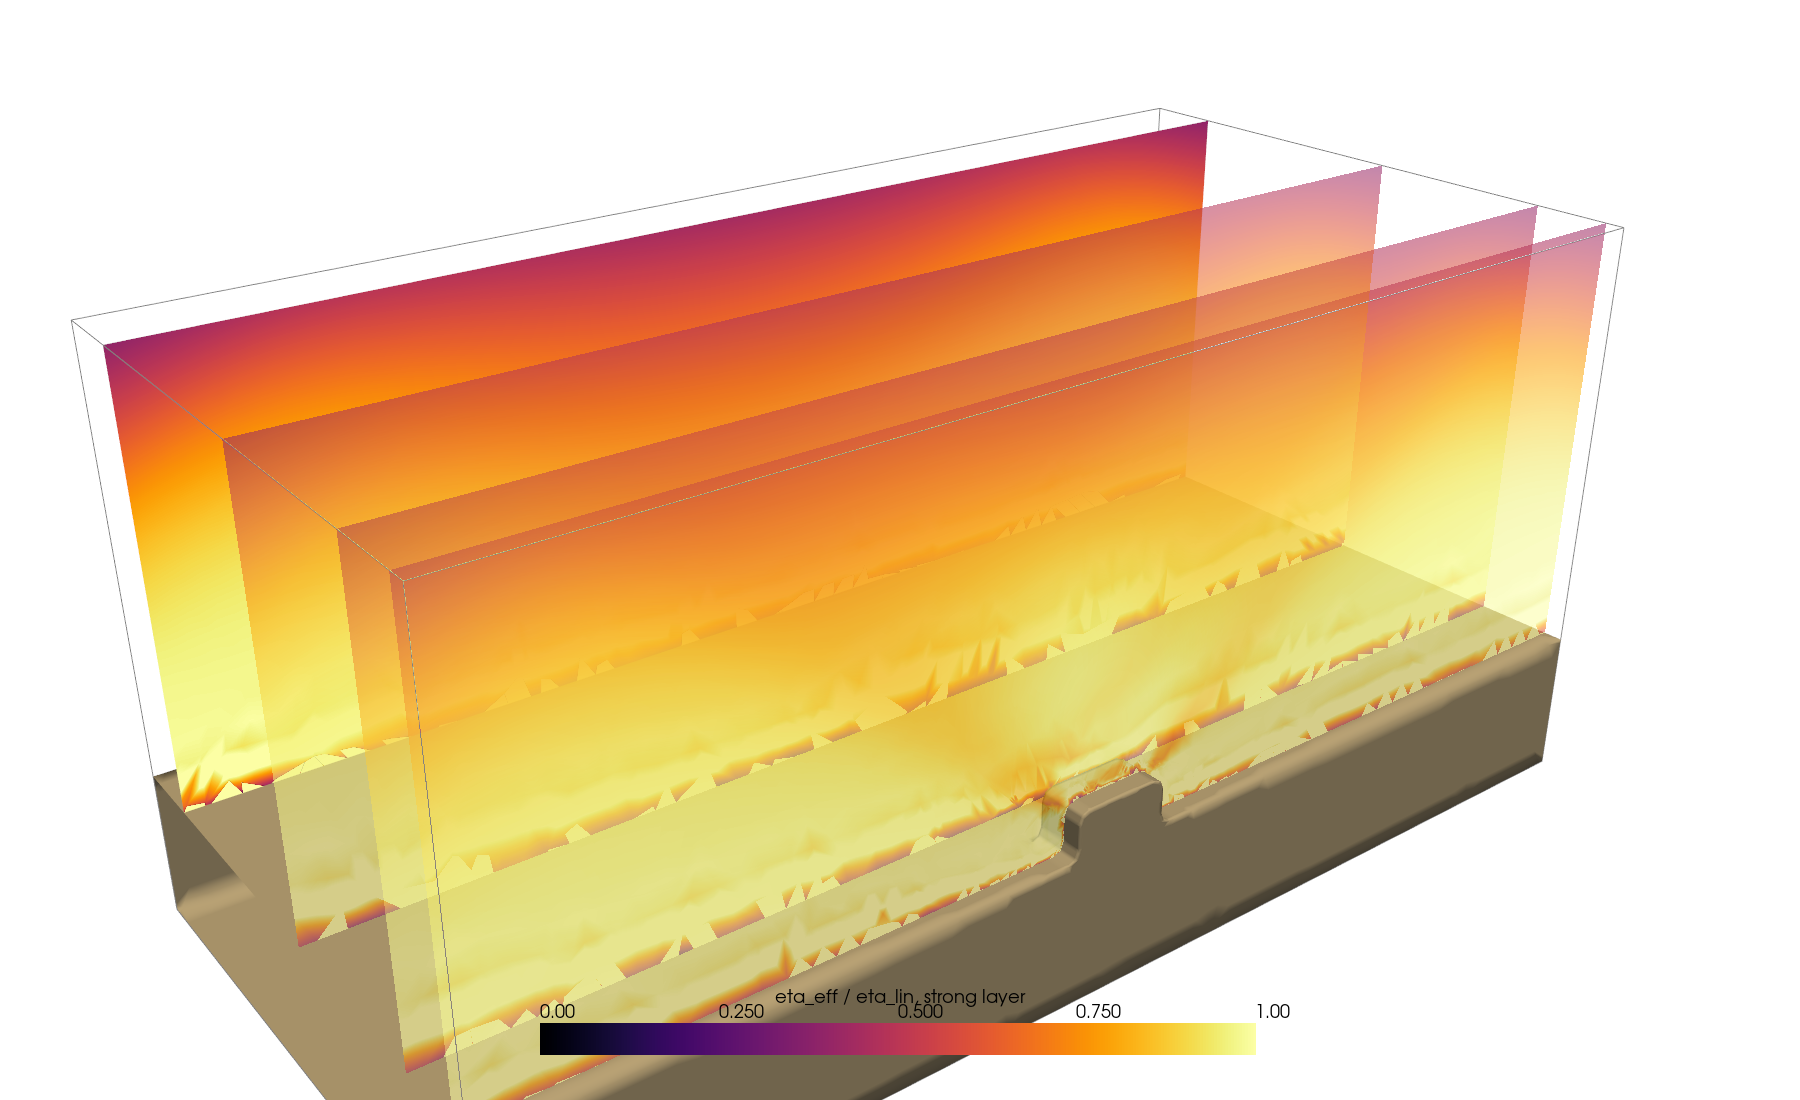
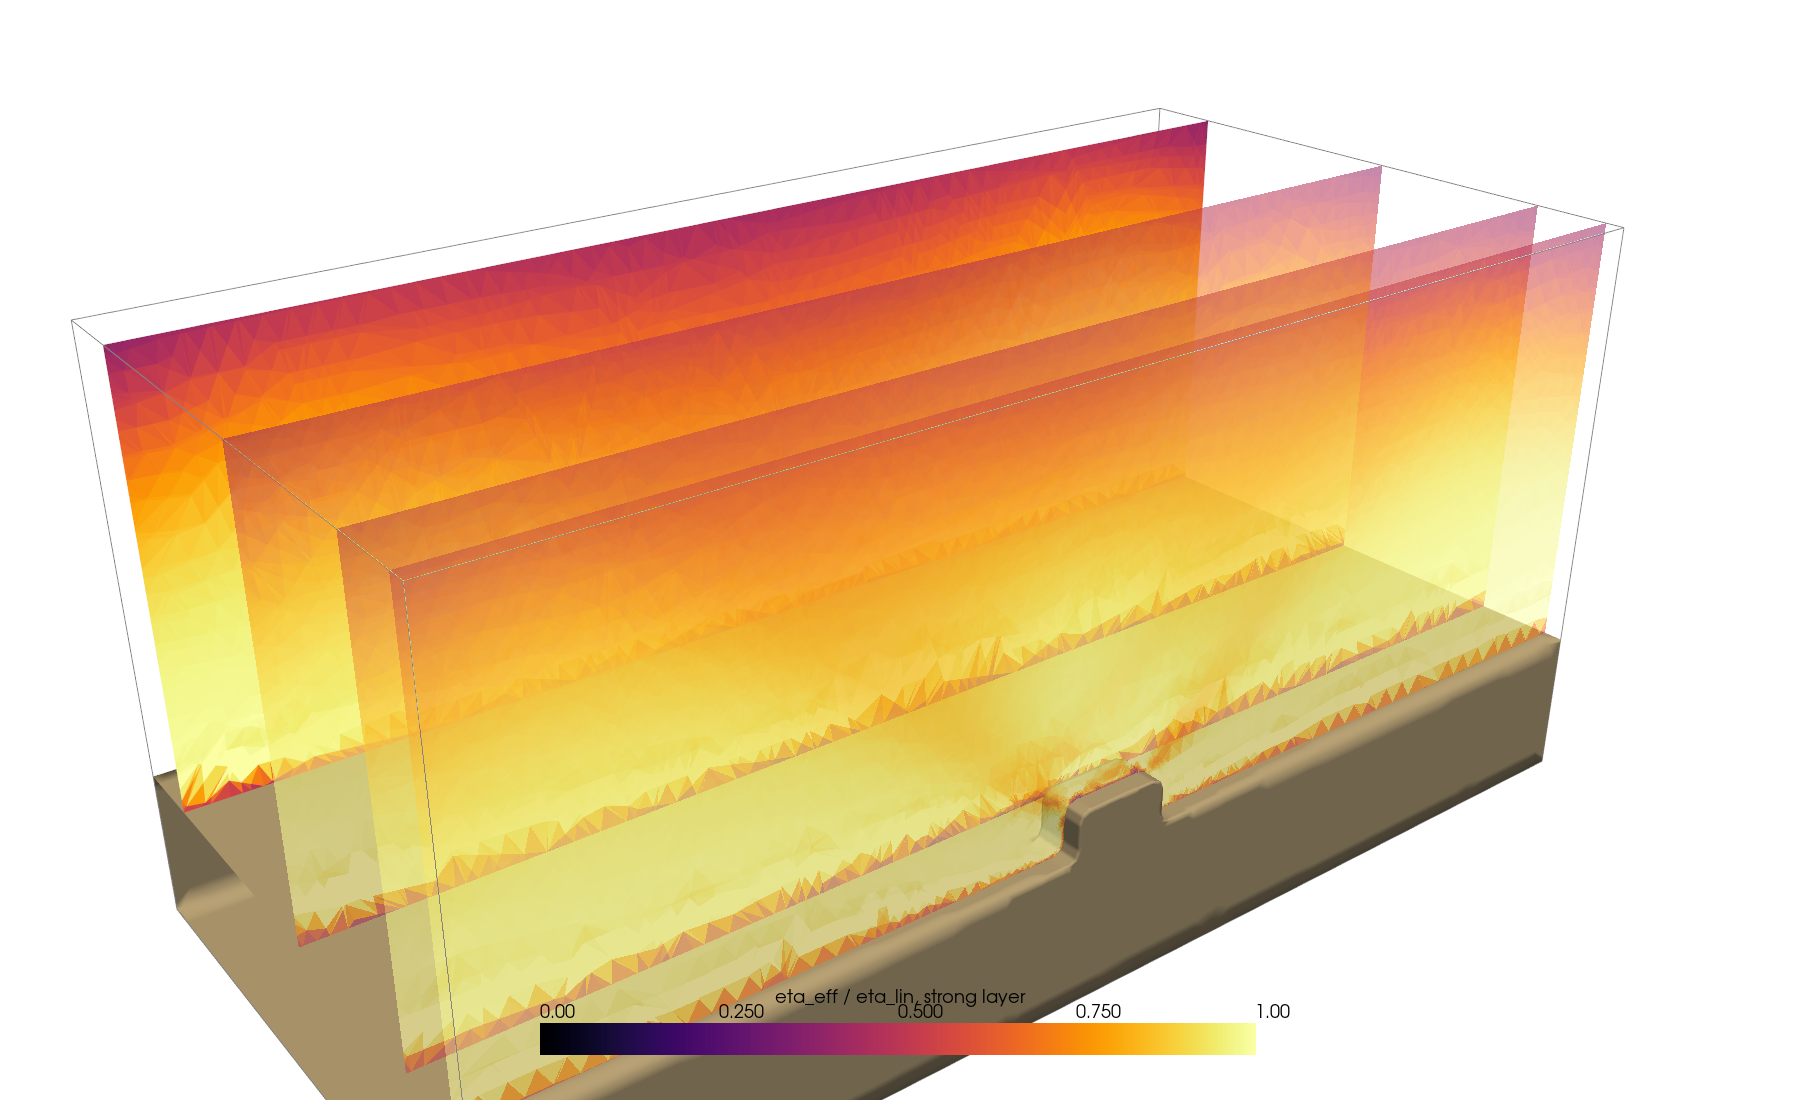
notch block 3-D: REPORT section (runs, reading, issues); ref-2 yield maps re-rendered at cell centroids, 10 km block ref-2 yield maps
Underworld development team with AI support from Claude Code

diff --git a/notch_length_scale/REPORT.md b/notch_length_scale/REPORT.md
@@ -1274,3 +1274,55 @@ mid-strike.
 
 The floor check therefore uses saved nodal arrays only (above). Worth an issue in the
 units system.
+
+## 3-D notch as a restricted block (2026-10-14 to 16)
+
+Louis (2026-10-14): an extruded notch roots the bands everywhere along strike and
+hides the crossover, so restrict the notch in the mesh. `drivers/make_notch_block_3d.py`
+extrudes the benchmark bump (5 km wide, 2.5 km high, 0.6 km fillets) only from z = 0
+to z = Ln on a weak layer that runs the whole strike; u_z = 0 on z = 0 is a symmetry
+plane, so the block is 2 Ln long. Lz = 32 km, h_band 4.8 km at ref 0 (1.2 at ref 2,
+0.6 at ref 3), h_near 1.2 km round the block. Micromorphic, beta 0.1, l 1 km, xi 0,
+capped Eisenstat-Walker (production_ew1e-2), np 16, FMG with one gmsh tail level
+(`_c2`; the c4 -> c2 transfer orphans coarse dofs at np >= 12). Ref 3 grid-sequenced
+from the ref-2 checkpoint. The 10 km block (Ln 5, length = 2 x width) is the standard
+case (Louis, 2026-10-15).
+
+| Block length | Ref | Newton its | Wall (s) | Note |
+|---|---|---|---|---|
+| 5 km (Ln 2.5) | 1 | 5 | 751 | "not enough resolution" |
+| 5 km | 2 | 8 | 2,291 | |
+| 5 km | 3 | 11 | 16,825 | |
+| 10 km (Ln 5) | 2 | 6 | 3,891 | |
+| 10 km | 3 | 11 | 26,427 | ~4.6 h of it at machine load 58-138 |
+| 20 km (Ln 10) | 2 | 6 | 3,735 | |
+
+**Reading (sections across the notch, strong layer only; yield maps as eta_eff/eta_lin).**
+- Over the block (z = 1 km) a sharp symmetric band pair rises from the block's top
+  corners to the surface, below yield along its whole length (eta_eff/eta_lin 0.4-0.6);
+  sharper at ref 3 than ref 2.
+- The bands persist past the block's end and fade along strike: for the 10 km block
+  the X is still clear and yielding 2.5 km past the end (z = 7.5), gone by z = 15. For
+  the 5 km block it is already faint 2.5 km past the end. The 20 km block (ref 2) has
+  strong bands along its length, persisting ~2.5 km past the end, faint by 10 km past.
+- Away from the block the strong layer shows only the uniform yielding of its upper
+  ~8 km (low pressure, Drucker-Prager) over a sub-yield deeper part.
+- The integral width W (median outside +-9 km) is not a band measure here: away from
+  the block it measures background, and it rises ref 2 -> 3 (5 km block 4.16 -> 4.82
+  km mid-strike). Near the block the 10 km case gives 4.1 km at z = 0.6 and 4.3 at 3.2
+  (ref 3). A band-tracking measure is needed before quoting 3-D widths.
+- The ragged one-element strip just above the weak layer is in the solution, not the
+  rendering: it halves in thickness ref 2 -> ref 3 (coarse tets touching the
+  viscosity jump). The renderer now samples each slice cell at its centroid (cell
+  data), which removed the separate point-location speckle.
+
+**Issues found on the way.**
+- Every gmsh-tail run printed a PETSc "PCFieldSplitGetSubKSP before PCSetUp" banner:
+  #827, a second path through `custom_mg._pcmg_still_installed` after a
+  `consistent_jacobian` rebuild. Fixed in PR #850.
+- `strong_layer_range` evaluates rank-locally at each rank's own P1 nodes and the
+  library warns that every point is extrapolated (#606 guard) at np 16. The headline W
+  uses `global_evaluate` and is unaffected; the range diagnostic is suspect until
+  checked.
+
+Figures: `figures/micro_ref{2,3}_..._notchblock3d_hb4.8_Lz32_Ln{2.5,5,10}_n1.2_tail1_blk_notchsections{,3d}{,_yield}.png`.
